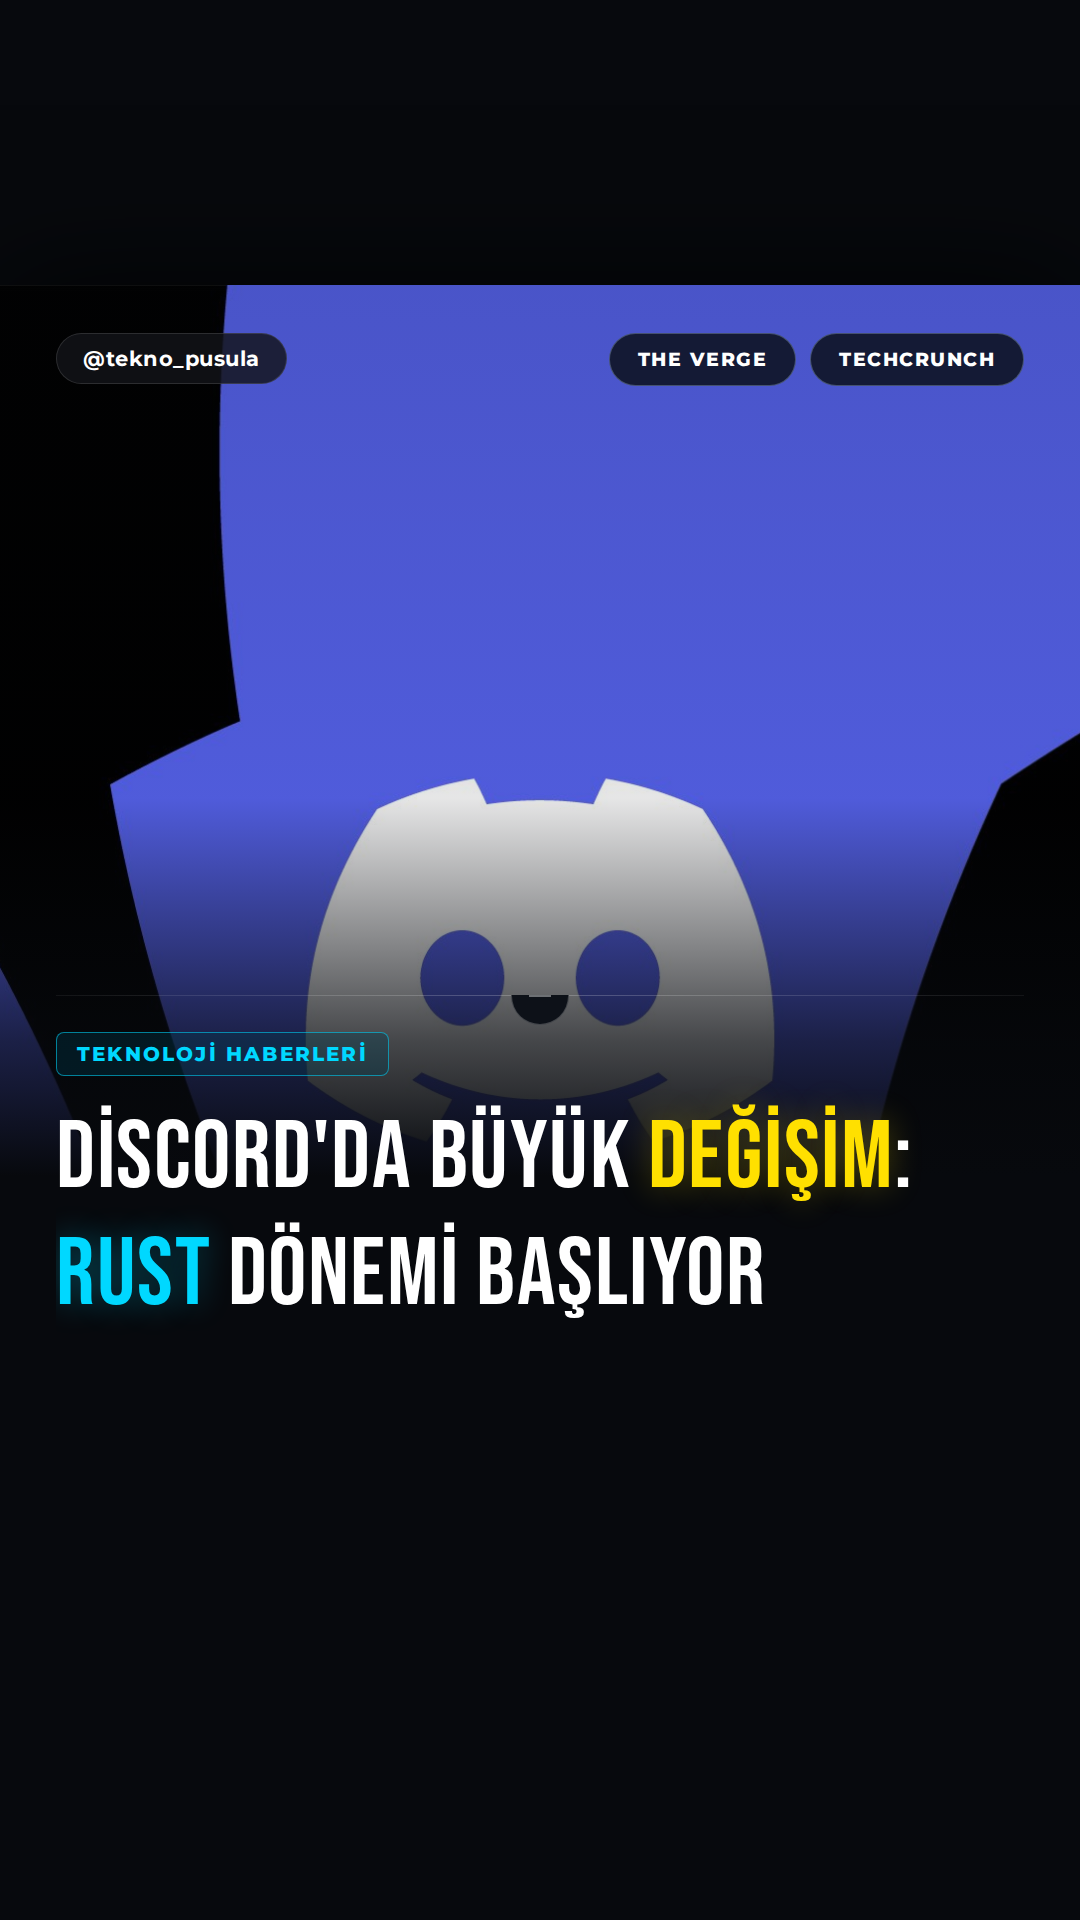
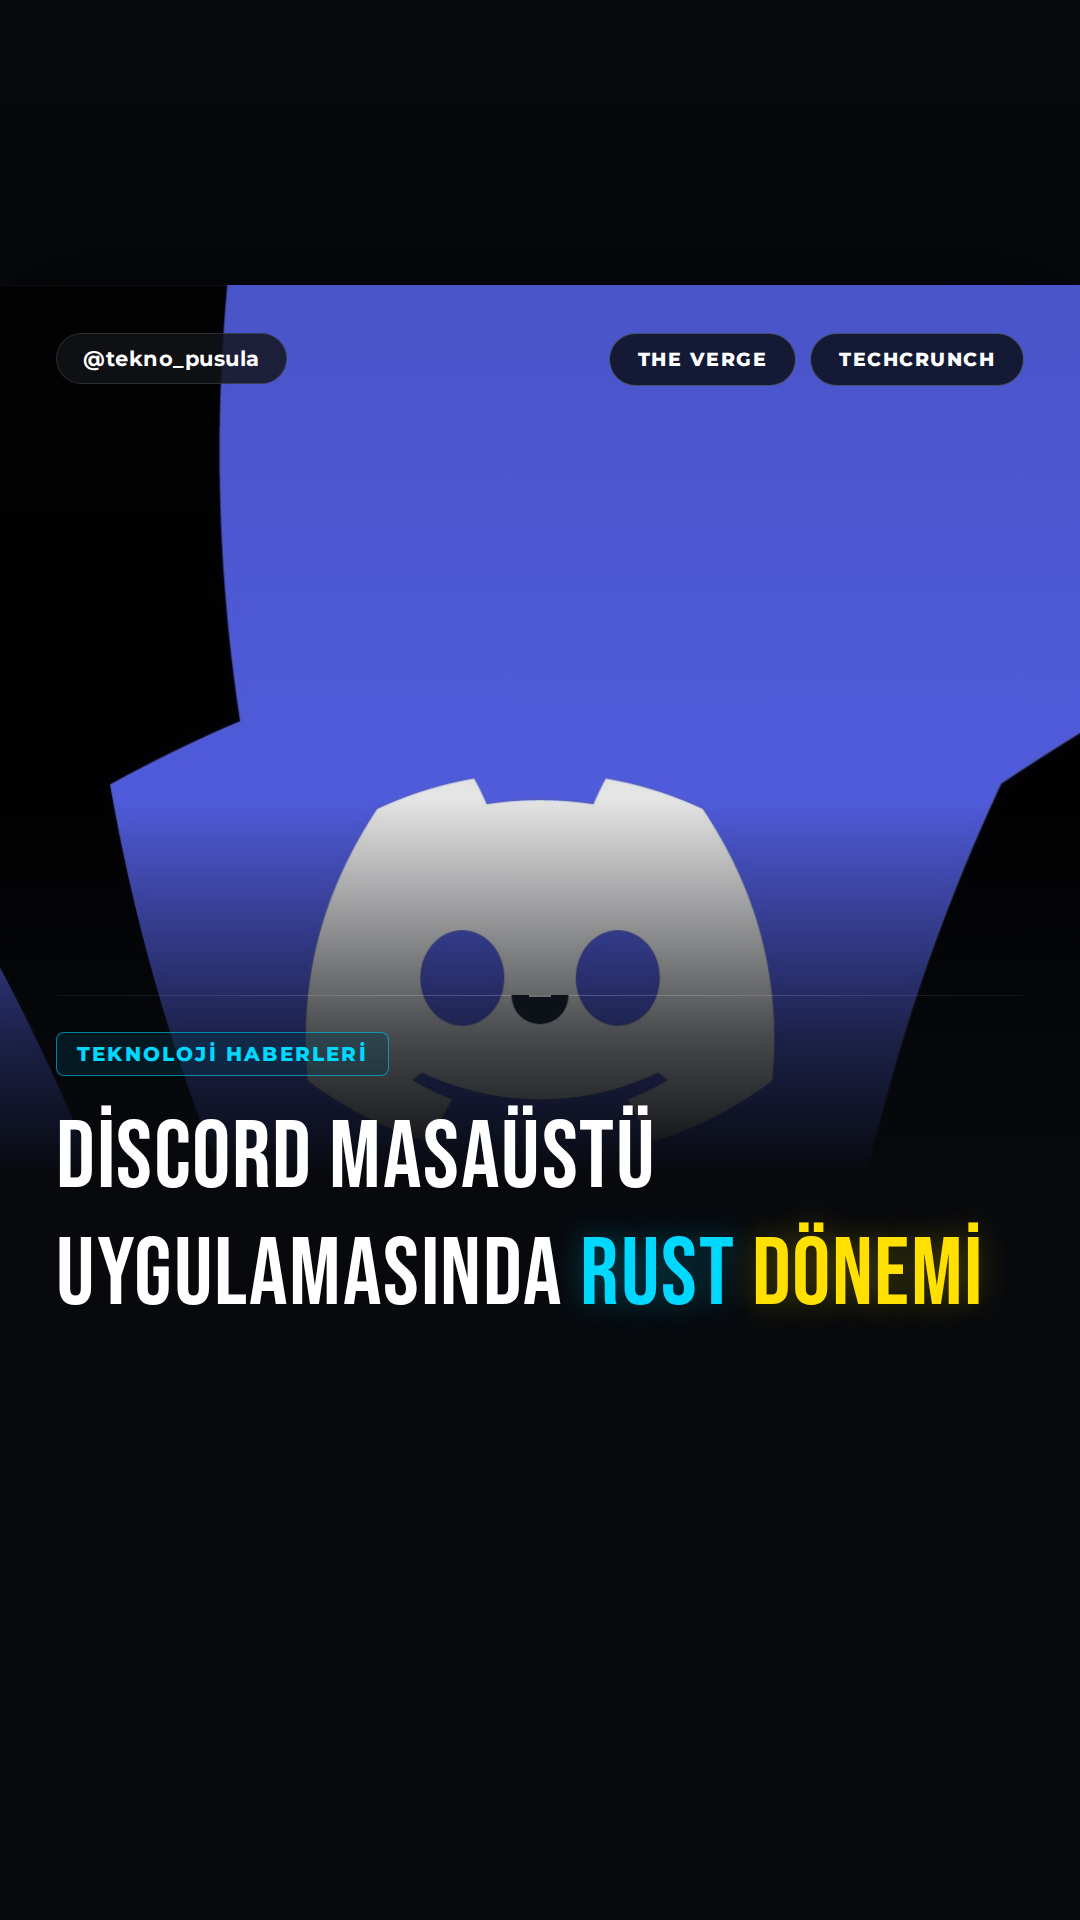
🤖 post: 2026-11-05 15:00 – Discord is ditching Electron and its new app uses less RAM

Changed region(s): [[0.0306, 0.5625, 0.9167, 0.6875]]

diff --git a/output/2026-11-05/03-1500-discord-is-ditching-electron-and-its-new-app-use/verification.md b/output/2026-11-05/03-1500-discord-is-ditching-electron-and-its-new-app-use/verification.md
@@ -3,38 +3,38 @@
 **Haber:** Discord is ditching Electron and its new app uses less RAM
 **Canonical URL:** https://www.theverge.com/news/1027379/discord-ditching-electron-web-app
 **Kaynaklar:** The Verge, TechCrunch, Engadget, AWS News Blog
-**Kontrol zamanı:** 2026-11-05T14:43:43+03:00
+**Kontrol zamanı:** 2026-11-05T14:47:43+03:00
 **Sonuç:** ✅ YAYINLANABİLİR
 
 ---
 
 ## İddia Bazlı Sonuçlar
 
-### 1. Discord, masaüstü uygulamasını Electron framework'ünden Rust programlama diline taşıyor.
+### 1. Discord, masaüstü uygulamasını Electron altyapısından Rust programlama diline taşıyacağını duyurdu.
 - **Karar:** ✅ `supported`
 - **Kanıtlar:**
   - [https://www.theverge.com/news/1027379/discord-ditching-electron-web-app](https://www.theverge.com/news/1027379/discord-ditching-electron-web-app)
     > Discord is finally giving up on Electron, the cross-platform framework that lets developers build desktop apps using web technologies. Electron web apps are notoriously heavy on system resources, and Discord is now moving its desktop app fully to Rust
   - [https://www.theverge.com/news/1027379/discord-ditching-electron-web-app](https://www.theverge.com/news/1027379/discord-ditching-electron-web-app)
-    > Discord is finally giving up on Electron, the cross-platform framework that lets developers build desktop apps using web technologies. Electron web apps are notoriously heavy on system resources, and Discord is now moving its desktop app fully to Rust — a modern programming language designed for speed and memory safety.
+    > Discord is ditching Electron and its new app uses less RAM Discord is moving its apps fully over to the Rust programming language.
 
-### 2. Discord, 2018 yılından beri Rust teknolojisini erken benimseyen bir şirket olmuştur.
+### 2. Discord, 2018 yılından beri Rust teknolojisini erken benimseyen şirketlerden biridir.
 - **Karar:** ✅ `supported`
 - **Kanıtlar:**
   - [https://www.theverge.com/news/1027379/discord-ditching-electron-web-app](https://www.theverge.com/news/1027379/discord-ditching-electron-web-app)
     > “We’ve been early adopters of Rust since 2018
   - [https://www.theverge.com/news/1027379/discord-ditching-electron-web-app](https://www.theverge.com/news/1027379/discord-ditching-electron-web-app)
-    > “We’ve been early adopters of Rust since 2018 and a lot of our infra, voice tech, and even some of the current client is already Rust, the holy grail was getting the whole client there,” explains Discord chief technology officer Stanislav Vishnevskiy in a post on X.
+    > “We’ve been early adopters of Rust since 2018 and a lot of our infra, voice tech, and even some of the current client is already Rust
 
 ### 3. Discord'un altyapısının, ses teknolojisinin ve mevcut istemcisinin bir kısmında halihazırda Rust kullanılmaktadır.
 - **Karar:** ✅ `supported`
 - **Kanıtlar:**
   - [https://www.theverge.com/news/1027379/discord-ditching-electron-web-app](https://www.theverge.com/news/1027379/discord-ditching-electron-web-app)
-    > a lot of our infra, voice tech, and even some of the current client is already Rust
+    > and a lot of our infra, voice tech, and even some of the current client is already Rust
   - [https://www.theverge.com/news/1027379/discord-ditching-electron-web-app](https://www.theverge.com/news/1027379/discord-ditching-electron-web-app)
-    > “We’ve been early adopters of Rust since 2018 and a lot of our infra, voice tech, and even some of the current client is already Rust, the holy grail was getting the whole client there,” explains Discord chief technology officer Stanislav Vishnevskiy in a post on X.
+    > “We’ve been early adopters of Rust since 2018 and a lot of our infra, voice tech, and even some of the current client is already Rust
 
-### 4. Discord CTO'su Stanislav Vishnevskiy, Electron ve React Native'in kullanımdan kaldırılacağını açıklamıştır.
+### 4. Discord CTO'su Stanislav Vishnevskiy, Electron ve React Native'in kullanımdan kaldırılacağını açıkladı.
 - **Karar:** ✅ `supported`
 - **Kanıtlar:**
   - [https://www.theverge.com/news/1027379/discord-ditching-electron-web-app](https://www.theverge.com/news/1027379/discord-ditching-electron-web-app)
@@ -42,13 +42,11 @@
   - [https://www.theverge.com/news/1027379/discord-ditching-electron-web-app](https://www.theverge.com/news/1027379/discord-ditching-electron-web-app)
     > “That means Electron goes away, and so does React Native, mobile keeps native UI but shares app code with desktop via Rust.”
 
-### 5. Discord'un yeni Rust tabanlı Windows istemcisi 290MB RAM kullanmaktadır.
+### 5. Discord'un yeni Rust tabanlı Windows istemcisi 290MB RAM tüketmektedir.
 - **Karar:** ✅ `supported`
 - **Kanıtlar:**
   - [https://www.theverge.com/news/1027379/discord-ditching-electron-web-app](https://www.theverge.com/news/1027379/discord-ditching-electron-web-app)
     > Vishnevskiy also shared an image of the Discord Windows client using just 290MB of RAM
-  - [https://www.theverge.com/news/1027379/discord-ditching-electron-web-app](https://www.theverge.com/news/1027379/discord-ditching-electron-web-app)
-    > Vishnevskiy also shared an image of the Discord Windows client using just 290MB of RAM, which is a clear improvement as you only have to participate in a few servers and RAM usage can easily hit 1GB or more using the current Windows app.
 
 ### 6. Mevcut Discord Windows uygulaması, birkaç sunucuya katılım durumunda 1GB veya daha fazla RAM tüketebilmektedir.
 - **Karar:** ✅ `supported`
@@ -58,19 +56,17 @@
   - [https://www.theverge.com/news/1027379/discord-ditching-electron-web-app](https://www.theverge.com/news/1027379/discord-ditching-electron-web-app)
     > Vishnevskiy also shared an image of the Discord Windows client using just 290MB of RAM, which is a clear improvement as you only have to participate in a few servers and RAM usage can easily hit 1GB or more using the current Windows app.
 
-### 7. Discord, mobil uygulamalarında yerel kullanıcı arayüzünü korurken, masaüstü ile uygulama kodunu Rust üzerinden paylaşacaktır.
+### 7. Discord, mobil uygulamalarında yerel kullanıcı arayüzünü koruyup masaüstü ile ortak kod paylaşımını Rust üzerinden yapacaktır.
 - **Karar:** ✅ `supported`
 - **Kanıtlar:**
   - [https://www.theverge.com/news/1027379/discord-ditching-electron-web-app](https://www.theverge.com/news/1027379/discord-ditching-electron-web-app)
-    > mobile keeps native UI but shares app code with desktop via Rust.
+    > mobile keeps native UI but shares app code with desktop via Rust.”
   - [https://www.theverge.com/news/1027379/discord-ditching-electron-web-app](https://www.theverge.com/news/1027379/discord-ditching-electron-web-app)
     > “That means Electron goes away, and so does React Native, mobile keeps native UI but shares app code with desktop via Rust.”
 
-### 8. Discord CTO'su Stanislav Vishnevskiy, yeni uygulamanın yakında kullanıcılarla test edilmeye başlanacağını belirtmiştir.
+### 8. Discord, yeni Rust tabanlı uygulamayı yakın zamanda kullanıcılarla test etmeyi hedeflemektedir.
 - **Karar:** ✅ `supported`
 - **Kanıtlar:**
-  - [https://www.theverge.com/news/1027379/discord-ditching-electron-web-app](https://www.theverge.com/news/1027379/discord-ditching-electron-web-app)
-    > Vishnevskiy says the company “hope to get it into testing with users soon.”
   - [https://www.theverge.com/news/1027379/discord-ditching-electron-web-app](https://www.theverge.com/news/1027379/discord-ditching-electron-web-app)
     > It’s not clear when Discord will make the full switch over to Rust, but Vishnevskiy says the company “hope to get it into testing with users soon.”
 
@@ -80,14 +76,14 @@
 
 | İddia | 1. Tur | 2. Tur | Nihai |
 |-------|--------|--------|-------|
-| Discord, masaüstü uygulamasını Electron framework'ünden Rust | supported | supported | supported |
+| Discord, masaüstü uygulamasını Electron altyapısından Rust p | supported | supported | supported |
 | Discord, 2018 yılından beri Rust teknolojisini erken benimse | supported | supported | supported |
 | Discord'un altyapısının, ses teknolojisinin ve mevcut istemc | supported | supported | supported |
 | Discord CTO'su Stanislav Vishnevskiy, Electron ve React Nati | supported | supported | supported |
-| Discord'un yeni Rust tabanlı Windows istemcisi 290MB RAM kul | supported | supported | supported |
+| Discord'un yeni Rust tabanlı Windows istemcisi 290MB RAM tük | supported | supported | supported |
 | Mevcut Discord Windows uygulaması, birkaç sunucuya katılım d | supported | supported | supported |
 | Discord, mobil uygulamalarında yerel kullanıcı arayüzünü kor | supported | supported | supported |
-| Discord CTO'su Stanislav Vishnevskiy, yeni uygulamanın yakın | supported | supported | supported |
+| Discord, yeni Rust tabanlı uygulamayı yakın zamanda kullanıc | supported | supported | supported |
 
 ## Kaynak Metinleri
 

diff --git a/output/2026-11-05/03-1500-discord-is-ditching-electron-and-its-new-app-use/captions.md b/output/2026-11-05/03-1500-discord-is-ditching-electron-and-its-new-app-use/captions.md
@@ -2,48 +2,74 @@
 
 ## INSTAGRAM
 
-Discord'da devrim niteliğinde bir değişim başlıyor! 🚀 Masaüstü uygulaması Electron'dan Rust'a geçiş yapıyor. Peki bu ne anlama geliyor? Artık çok daha hızlı ve verimli bir Discord deneyimi bizi bekliyor. Özellikle RAM tüketiminde ciddi bir düşüş hedefleniyor; 1GB'lık kullanımlar artık 290MB seviyelerine inebilir. Düşük donanımlı bilgisayarlar için harika bir haber! Sizce bu performans odaklı hamle, diğer uygulamalar için de bir örnek teşkil eder mi? Yorumlarda buluşalım. Kaynak: The Verge, TechCrunch
+Discord'da performans devrimi başlıyor! 🚀
 
-#Discord #Rust #Teknoloji #Yazılım #Performance #TechNews #Electron #Coding #DiscordUpdate #Developer #TechTrends
+Discord, masaüstü uygulamasını Electron'dan Rust diline taşıyor. Bu değişimle RAM tüketiminin 1GB'tan 290MB'a düşmesi hedefleniyor.
+
+Düşük donanımlı bilgisayarlar için büyük bir müjde olan bu güncelleme, uygulamanın çok daha akıcı çalışmasını sağlayacak. Discord, 2018'den beri Rust teknolojisini ses altyapısında zaten kullanıyordu.
+
+Sizce uygulamaların RAM tüketimini düşürmesi, kullanıcı deneyimini ne kadar değiştirir? Yorumlarda buluşalım!
+
+Teknoloji dünyasındaki güncel gelişmeler için Tekno Pusula'yı takipte kalın.
+
+Kaynak: The Verge, TechCrunch
+
+#Discord #RustLang #TeknolojiHaberleri #Yazılım #Performans #Bilgisayar #TechNews #Coding #SoftwareDevelopment #TeknoPusula
 
 ## TIKTOK
 
-Discord artık çok daha hızlı! 🚀 Masaüstü uygulaması Electron'dan Rust'a geçiyor. RAM kullanımı 1GB'dan 290MB'a düşüyor. Düşük donanımlı bilgisayarlar için büyük rahatlama! Sizce diğer uygulamalar da bu yolu izlemeli mi? Kaynak: The Verge, TechCrunch
+Discord'da RAM sorunu tarih oluyor! ⚡ Discord, masaüstü uygulamasını Rust diline taşıyor. 1GB RAM tüketimi artık 290MB'a düşecek. Daha hızlı ve akıcı bir Discord deneyimi yolda. Sizce bu değişim diğer uygulamaları da etkiler mi? 
 
-#Discord #Rust #Teknoloji #Yazılım #TechNews
+Kaynak: The Verge, TechCrunch
+
+#Discord #Rust #Teknoloji #Yazılım #Bilgisayar #TechTok
 
 ## X
 
-Discord, masaüstü uygulamasını Electron'dan Rust'a taşıyor! 🚀 RAM tüketimi 1GB'dan 290MB seviyelerine düşecek, performans artışı yolda. Sizce bu hamle diğer uygulamalar için bir trend başlatır mı? Kaynak: The Verge, TechCrunch
+Discord, masaüstü uygulamasını Electron'dan Rust'a taşıyor! 🚀 Yeni sürümle RAM tüketimi 1GB'tan 290MB'a düşecek. Performans odaklı bu değişim, düşük donanımlı cihazlar için büyük bir adım. Sizce bu durum kullanıcı deneyimini ne kadar değiştirir? Kaynak: The Verge
 
 #Discord #Rust
 
 ## THREADS
 
-Discord'da Rust Dönemi Başlıyor! 🚀
+Discord'da Rust Dönemi Başlıyor 🚀
 
-Discord, masaüstü uygulamasını Electron'dan Rust'a taşıyarak performans odaklı bir yenilenmeye gidiyor. Yeni sürümle birlikte RAM tüketiminin 1GB'dan 290MB seviyelerine düşmesi hedefleniyor.
+Discord, masaüstü istemcisini Electron'dan Rust altyapısına taşıyor. Bu hamleyle RAM tüketiminin 1GB'tan 290MB'a düşmesi hedefleniyor.
 
-Sizce bu performans odaklı hamle, diğer popüler uygulamalar için de bir örnek teşkil eder mi? 💭
+Performans odaklı bu değişim, özellikle düşük donanımlı bilgisayarlarda çok daha akıcı bir deneyim sunacak. Sektördeki büyük uygulamaların Rust'a geçişini hızlandırabilir.
 
-Kaynak: The Verge, TechCrunch
+Sizce uygulamaların RAM tüketimini düşürmesi, kullanıcı deneyimini ne kadar değiştirir? 💭
+
+Kaynak: The Verge
 
 #Teknoloji
 
 ## LINKEDIN
 
-Discord, yazılım mimarisinde stratejik bir değişikliğe giderek masaüstü uygulamasını Electron'dan Rust'a taşıyor. Bu geçiş, özellikle performans ve kaynak yönetimi açısından kritik bir adım.
+Discord, masaüstü uygulama mimarisinde önemli bir değişikliğe gidiyor. Şirket, Electron altyapısından Rust programlama diline geçiş yapacağını duyurdu.
 
-CTO Stanislav Vishnevskiy'nin açıklamalarına göre, yeni Rust tabanlı istemci, mevcut 1GB RAM tüketimini 290MB seviyelerine çekmeyi hedefliyor. Bu durum, özellikle düşük donanımlı cihazlarda kullanıcı deneyimini ciddi oranda iyileştirecek.
+Bu stratejik hamle, performans optimizasyonu açısından kritik bir öneme sahip. Mevcut uygulamada 1GB'a kadar çıkabilen RAM tüketiminin, yeni Rust tabanlı sürümle 290MB seviyelerine indirilmesi hedefleniyor. 2018 yılından beri Rust teknolojisini ses altyapısında başarıyla kullanan Discord, bu deneyimi masaüstü istemcisine de taşıyarak verimliliği artırmayı amaçlıyor.
 
-Electron tabanlı uygulamaların yerini daha performanslı yerel dillerin alması, yazılım dünyasında yeni bir trendin habercisi olabilir mi? Sektörel dönüşümü nasıl değerlendiriyorsunuz?
+Bu gelişme, büyük ölçekli masaüstü uygulamalarının performans odaklı dillerle yeniden yapılandırılması konusunda sektörel bir trendi tetikleyebilir.
+
+Sizce uygulamaların RAM tüketimini düşürmesi, kullanıcı deneyimini ne kadar değiştirir?
 
 Kaynak: The Verge, TechCrunch
 
-#Discord #Rust #YazılımGeliştirme #PerformanceEngineering #TechStrategy
+#Discord #RustLang #YazılımGeliştirme #PerformansOptimizasyonu #Teknoloji
 
 ## FACEBOOK
 
-Discord kullanıcılarına müjde! 🚀 Masaüstü uygulaması Electron'dan Rust'a geçiyor. Bu değişimle birlikte uygulama çok daha hızlı çalışacak ve RAM tüketimi 1GB'dan 290MB seviyelerine düşecek. Özellikle düşük donanımlı bilgisayarlar için büyük bir performans artışı bekleniyor. Sizce bu hamle diğer uygulamalar için de bir örnek teşkil eder mi? Kaynak: The Verge, TechCrunch
+Discord'da performans devrimi başlıyor! 🚀
 
-#Discord #Rust #Teknoloji #Yazılım #TechNews
+Discord, masaüstü uygulamasını Electron altyapısından Rust programlama diline taşıyacağını resmen duyurdu. Bu değişimle birlikte, RAM tüketiminin 1GB seviyelerinden 290MB'a kadar düşmesi hedefleniyor.
+
+Özellikle düşük donanımlı bilgisayarlar için büyük bir müjde olan bu güncelleme, uygulamanın çok daha akıcı çalışmasını sağlayacak. Discord, 2018'den beri Rust teknolojisini zaten ses altyapısında kullanıyordu.
+
+Sizce uygulamaların RAM tüketimini düşürmesi, kullanıcı deneyimini ne kadar değiştirir? Yorumlarda buluşalım!
+
+Teknoloji dünyasındaki güncel gelişmeler için Tekno Pusula'yı takipte kalın.
+
+Kaynak: The Verge, TechCrunch
+
+#Discord #Rust #Teknoloji #Yazılım #Performans
